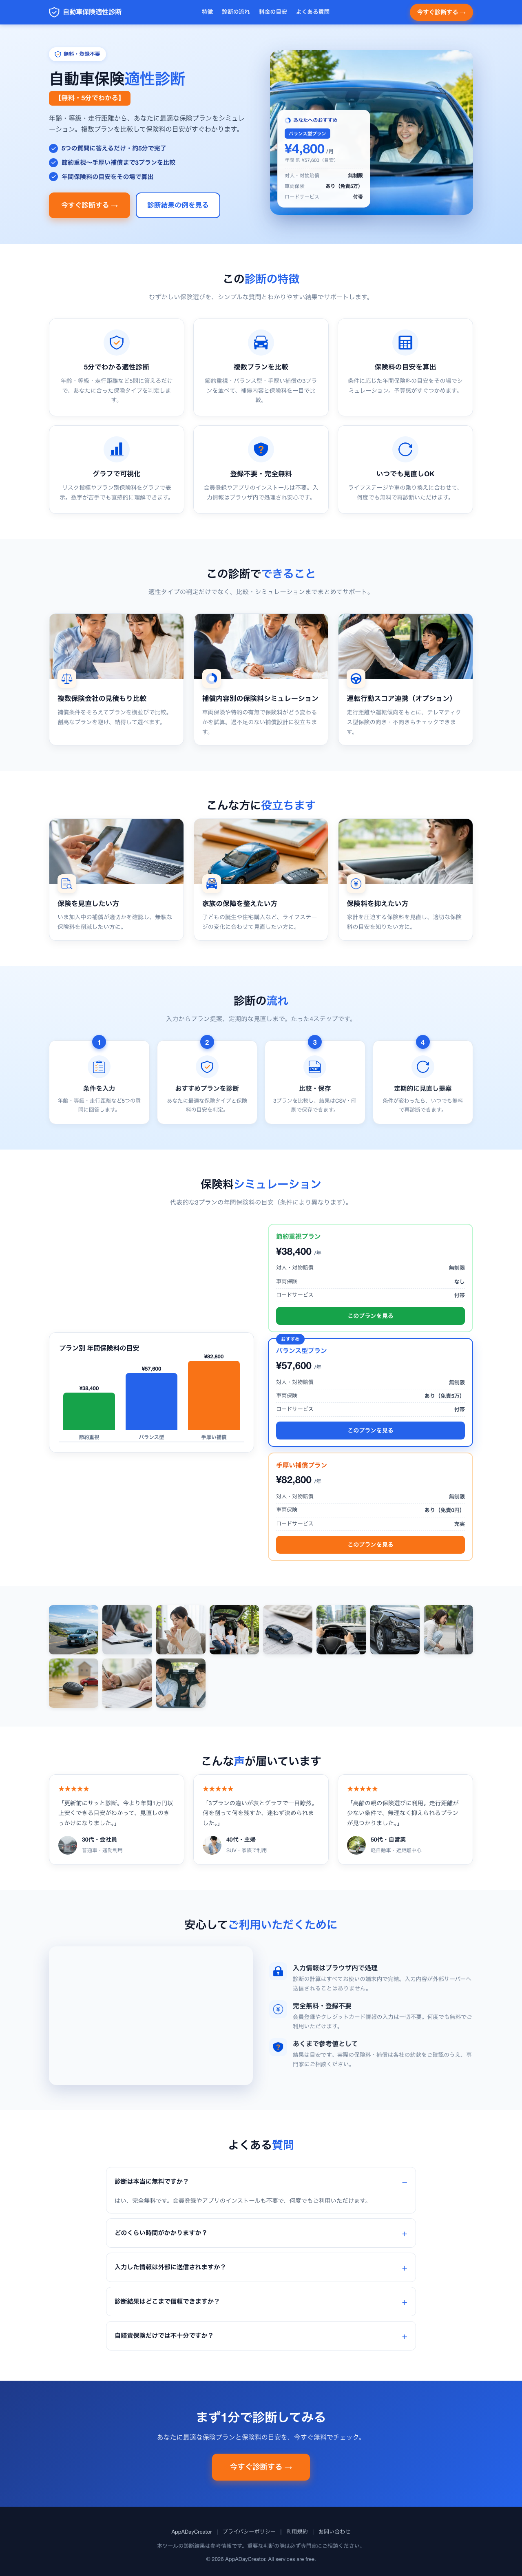
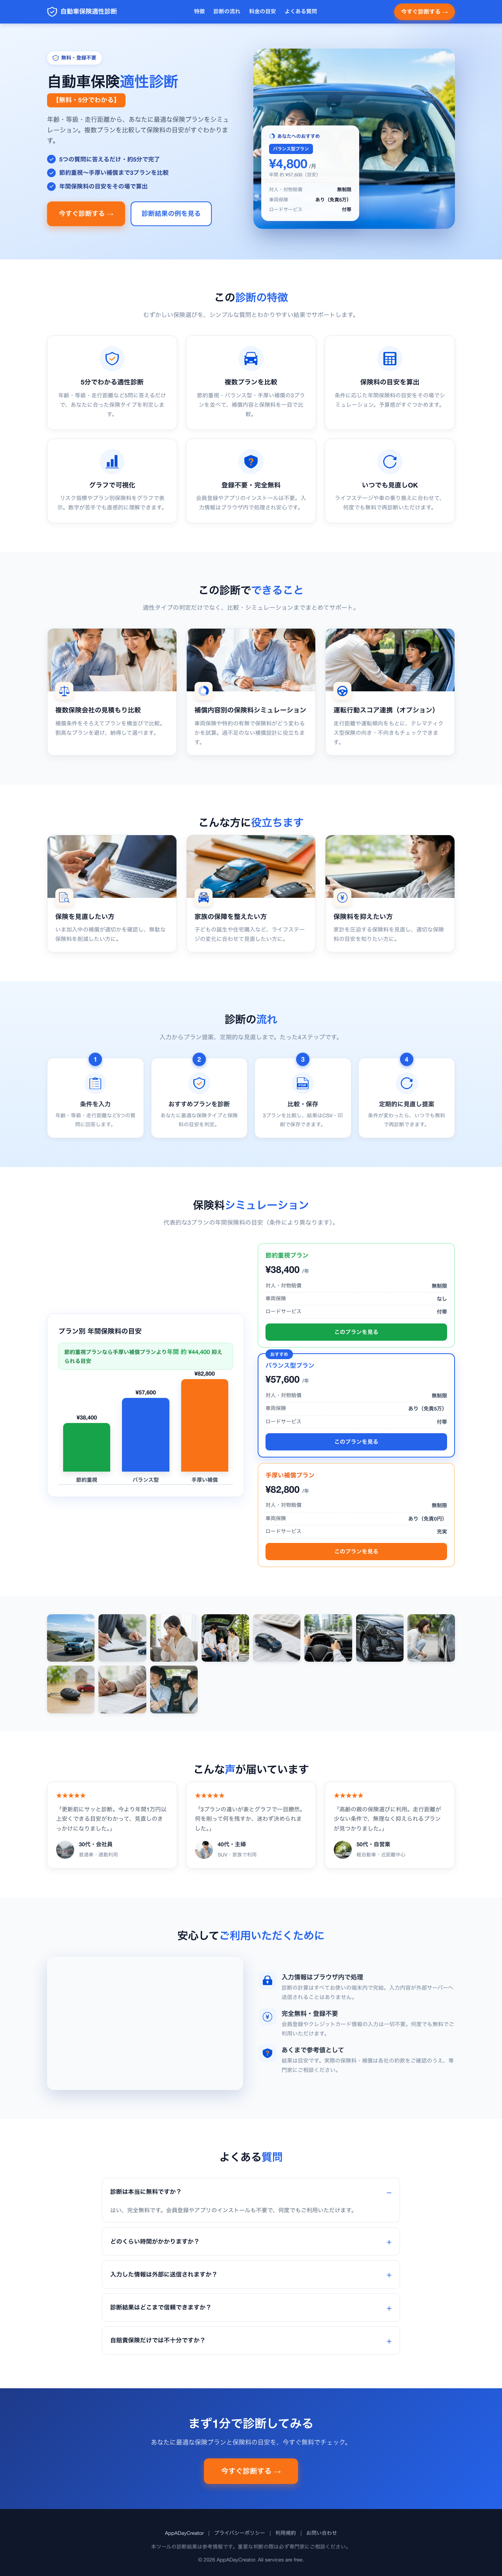
Rollback: step7 pass2 regressed (64->48)

diff --git a/lp/index.html b/lp/index.html
@@ -60,9 +60,8 @@ j=d.createElement(s),dl=l!="dataLayer"?"&l="+l:"";j.async=true;j.src=
         @media(max-width:840px){.nav{display:none;}}
 
         /* Hero */
-        .hero{background:linear-gradient(160deg,#eff6ff 0%,#dbeafe 55%,#bfdbfe 100%);position:relative;overflow:hidden;padding:64px 0 78px;}
-        .hero::before{content:"";position:absolute;top:-120px;right:-120px;width:420px;height:420px;border-radius:50%;background:radial-gradient(circle,rgba(37,99,235,.12),transparent 70%);pointer-events:none;}
-        .hero-grid{display:grid;grid-template-columns:1fr 1.08fr;gap:50px;align-items:center;position:relative;z-index:1;}
+        .hero{background:linear-gradient(160deg,#eff6ff 0%,#dbeafe 55%,#bfdbfe 100%);position:relative;overflow:hidden;padding:56px 0 64px;}
+        .hero-grid{display:grid;grid-template-columns:1fr 1fr;gap:44px;align-items:center;}
         .hero-badge{display:inline-flex;align-items:center;gap:6px;background:#fff;color:var(--primary-dark);font-weight:700;font-size:.8rem;padding:6px 14px;border-radius:999px;box-shadow:0 2px 8px rgba(37,99,235,.15);margin-bottom:18px;}
         .hero h1{font-size:2.35rem;font-weight:900;line-height:1.32;letter-spacing:-.5px;color:#0f172a;margin-bottom:6px;}
         .hero h1 .em{color:var(--primary);}
@@ -95,8 +94,8 @@ j=d.createElement(s),dl=l!="dataLayer"?"&l="+l:"";j.async=true;j.src=
 
         /* Hero visual (big family photo + floating result card) */
         .hero-visual{position:relative;}
-        .hero-photo{width:100%;height:460px;object-fit:cover;border-radius:24px;box-shadow:0 26px 60px rgba(30,58,138,.30);}
-        .hero-result{position:absolute;left:20px;bottom:20px;width:250px;background:rgba(255,255,255,.97);backdrop-filter:blur(2px);border:1px solid var(--line);border-radius:18px;box-shadow:0 18px 42px rgba(30,58,138,.28);padding:17px 19px;}
+        .hero-photo{width:100%;height:404px;object-fit:cover;border-radius:22px;box-shadow:0 22px 54px rgba(30,58,138,.28);}
+        .hero-result{position:absolute;left:18px;bottom:18px;width:228px;background:rgba(255,255,255,.97);backdrop-filter:blur(2px);border:1px solid var(--line);border-radius:16px;box-shadow:0 16px 38px rgba(30,58,138,.26);padding:15px 17px;}
         .hr-head{display:flex;align-items:center;gap:6px;font-size:.76rem;font-weight:700;color:var(--primary-dark);margin-bottom:7px;}
         .hr-head img{width:15px;height:15px;}
         .hr-plan{display:inline-block;background:var(--primary);color:#fff;font-size:.72rem;font-weight:800;padding:3px 10px;border-radius:6px;margin-bottom:8px;}
@@ -110,7 +109,7 @@ j=d.createElement(s),dl=l!="dataLayer"?"&l="+l:"";j.async=true;j.src=
         .hr-rows li span:last-child{font-weight:700;color:#0f172a;}
 
         /* Section base */
-        section{padding:74px 0;}
+        section{padding:62px 0;}
         .sec-light{background:var(--bg);}
         .sec-blue{background:linear-gradient(180deg,#f0f7ff,#e0efff);}
         .sec-title{text-align:center;font-size:1.7rem;font-weight:900;color:#0f172a;margin-bottom:8px;letter-spacing:-.3px;}
@@ -149,15 +148,13 @@ j=d.createElement(s),dl=l!="dataLayer"?"&l="+l:"";j.async=true;j.src=
 
         /* Plan comparison */
         .plans{display:grid;grid-template-columns:1fr 1fr;gap:34px;align-items:center;}
-        .chart-card{background:#fff;border:1px solid var(--line);border-radius:18px;padding:30px 28px;box-shadow:0 10px 30px rgba(37,99,235,.10);}
-        .chart-card h3{font-size:1.08rem;font-weight:800;margin-bottom:14px;color:#0f172a;}
-        .save-note{background:#ecfdf5;border:1px solid #bbf7d0;color:#15803d;font-size:.86rem;font-weight:700;padding:9px 14px;border-radius:10px;margin-bottom:24px;}
-        .save-note b{color:var(--green);font-size:.96rem;}
-        .bars{display:flex;align-items:flex-end;gap:30px;height:270px;border-bottom:2px solid var(--line);padding:0 12px;}
+        .chart-card{background:#fff;border:1px solid var(--line);border-radius:16px;padding:24px;box-shadow:0 6px 20px rgba(15,23,42,.06);}
+        .chart-card h3{font-size:1rem;font-weight:800;margin-bottom:18px;color:#0f172a;}
+        .bars{display:flex;align-items:flex-end;gap:26px;height:200px;border-bottom:2px solid var(--line);padding:0 10px;}
         .bar-col{flex:1;display:flex;flex-direction:column;align-items:center;justify-content:flex-end;height:100%;}
-        .bar{width:100%;border-radius:10px 10px 0 0;position:relative;box-shadow:0 6px 16px rgba(15,23,42,.12);}
-        .bar .val{position:absolute;top:-26px;left:0;right:0;text-align:center;font-size:.9rem;font-weight:900;color:#0f172a;}
-        .bar-col .lb{margin-top:10px;font-size:.84rem;color:#334155;font-weight:700;text-align:center;}
+        .bar{width:100%;border-radius:8px 8px 0 0;position:relative;}
+        .bar .val{position:absolute;top:-22px;left:0;right:0;text-align:center;font-size:.82rem;font-weight:800;color:#0f172a;}
+        .bar-col .lb{margin-top:8px;font-size:.78rem;color:var(--muted);font-weight:600;text-align:center;}
         .plan-cards{display:flex;flex-direction:column;gap:14px;}
         .plan{border:2px solid var(--line);border-radius:14px;padding:16px 18px;background:#fff;position:relative;}
         .plan.green{border-color:#bbf7d0;}
@@ -442,7 +439,6 @@ j=d.createElement(s),dl=l!="dataLayer"?"&l="+l:"";j.async=true;j.src=
         <div class="plans">
             <div class="chart-card">
                 <h3>プラン別 年間保険料の目安</h3>
-                <div class="save-note">節約重視プランなら手厚い補償プランより<b>年間 約 ¥44,400</b> 抑えられる目安</div>
                 <div class="bars">
                     <div class="bar-col"><div class="bar" style="height:46%;background:var(--green);"><span class="val">¥38,400</span></div><div class="lb">節約重視</div></div>
                     <div class="bar-col"><div class="bar" style="height:70%;background:var(--primary);"><span class="val">¥57,600</span></div><div class="lb">バランス型</div></div>

diff --git a/index.html b/index.html
@@ -202,9 +202,8 @@ j=d.createElement(s),dl=l!="dataLayer"?"&l="+l:"";j.async=true;j.src=
         .v2cta:hover{background:var(--accent-dark);transform:translateY(-1px);}
         @media(max-width:760px){.v2nav{display:none;}}
 
-        .v2hero{background:linear-gradient(160deg,#eff6ff 0%,#dbeafe 60%,#bfdbfe 100%);padding:60px 0 70px;position:relative;overflow:hidden;}
-        .v2hero::after{content:"";position:absolute;top:-120px;right:-120px;width:400px;height:400px;border-radius:50%;background:radial-gradient(circle,rgba(37,99,235,.12),transparent 70%);pointer-events:none;}
-        .v2hero-in{max-width:1080px;margin:0 auto;padding:0 20px;display:grid;grid-template-columns:1fr 1.08fr;gap:48px;align-items:center;position:relative;z-index:1;}
+        .v2hero{background:linear-gradient(160deg,#eff6ff 0%,#dbeafe 60%,#bfdbfe 100%);padding:48px 0 56px;}
+        .v2hero-in{max-width:1080px;margin:0 auto;padding:0 20px;display:grid;grid-template-columns:1fr 1fr;gap:40px;align-items:center;}
         .v2badge{display:inline-flex;align-items:center;gap:6px;background:#fff;color:var(--primary-dark);font-weight:700;font-size:.78rem;padding:6px 14px;border-radius:999px;box-shadow:0 2px 8px rgba(37,99,235,.15);margin-bottom:16px;}
         .v2badge img{width:15px;height:15px;}
         .v2hero h1{font-size:2.2rem;font-weight:900;line-height:1.3;letter-spacing:-.5px;color:#0f172a;margin:0 0 8px;}
@@ -240,7 +239,7 @@ j=d.createElement(s),dl=l!="dataLayer"?"&l="+l:"";j.async=true;j.src=
         .v2mini .m.o .b{background:var(--accent);}
 
         .v2hero-visual{position:relative;}
-        .v2hero-photo{width:100%;height:380px;object-fit:cover;border-radius:22px;box-shadow:0 24px 56px rgba(30,58,138,.30);}
+        .v2hero-photo{width:100%;height:300px;object-fit:cover;border-radius:20px;box-shadow:0 20px 50px rgba(30,58,138,.26);}
         .v2hero-card{position:relative;margin:-56px 16px 0;background:#fff;border:1px solid #e2e8f0;border-radius:16px;box-shadow:0 16px 40px rgba(30,58,138,.22);padding:16px 18px;}
         .v2hc-head{display:flex;align-items:center;gap:6px;font-size:.78rem;font-weight:700;color:var(--primary-dark);margin-bottom:7px;}
         .v2hc-head img{width:15px;height:15px;}